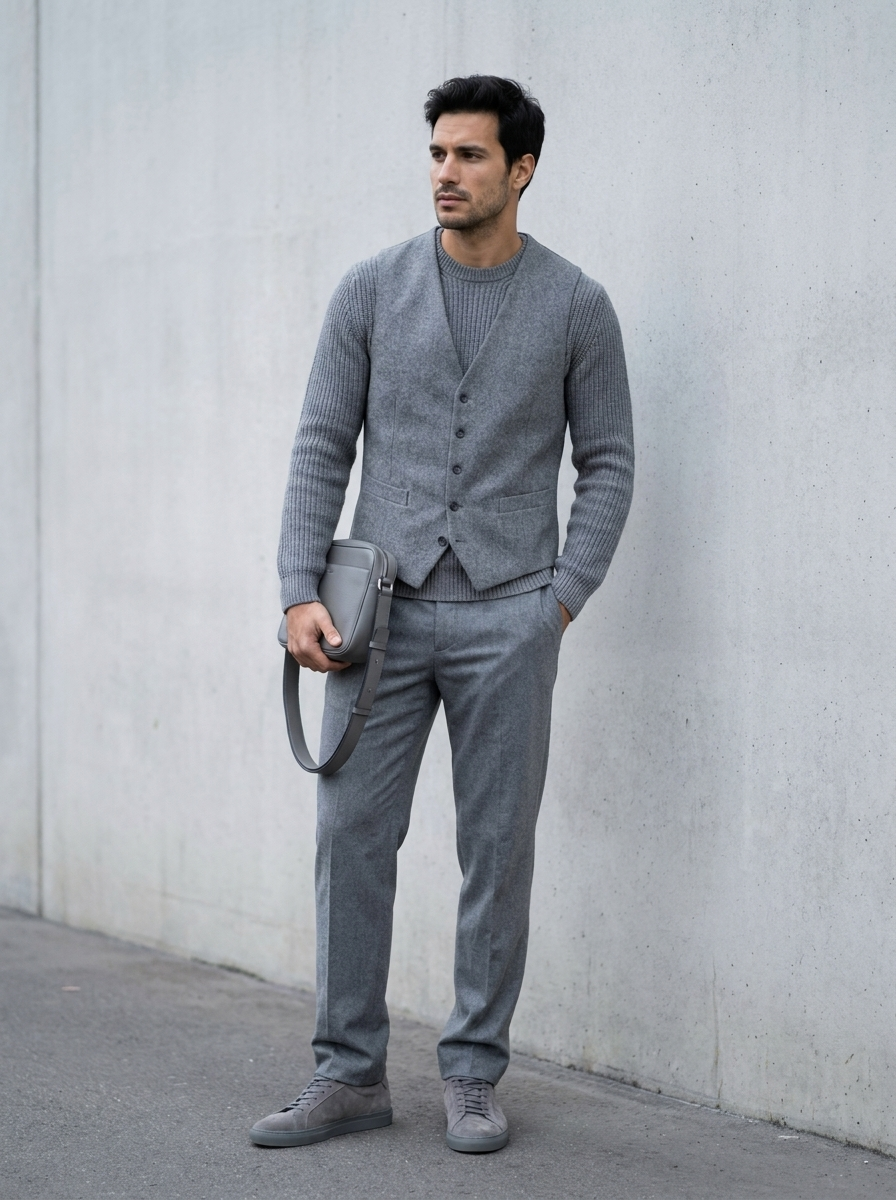
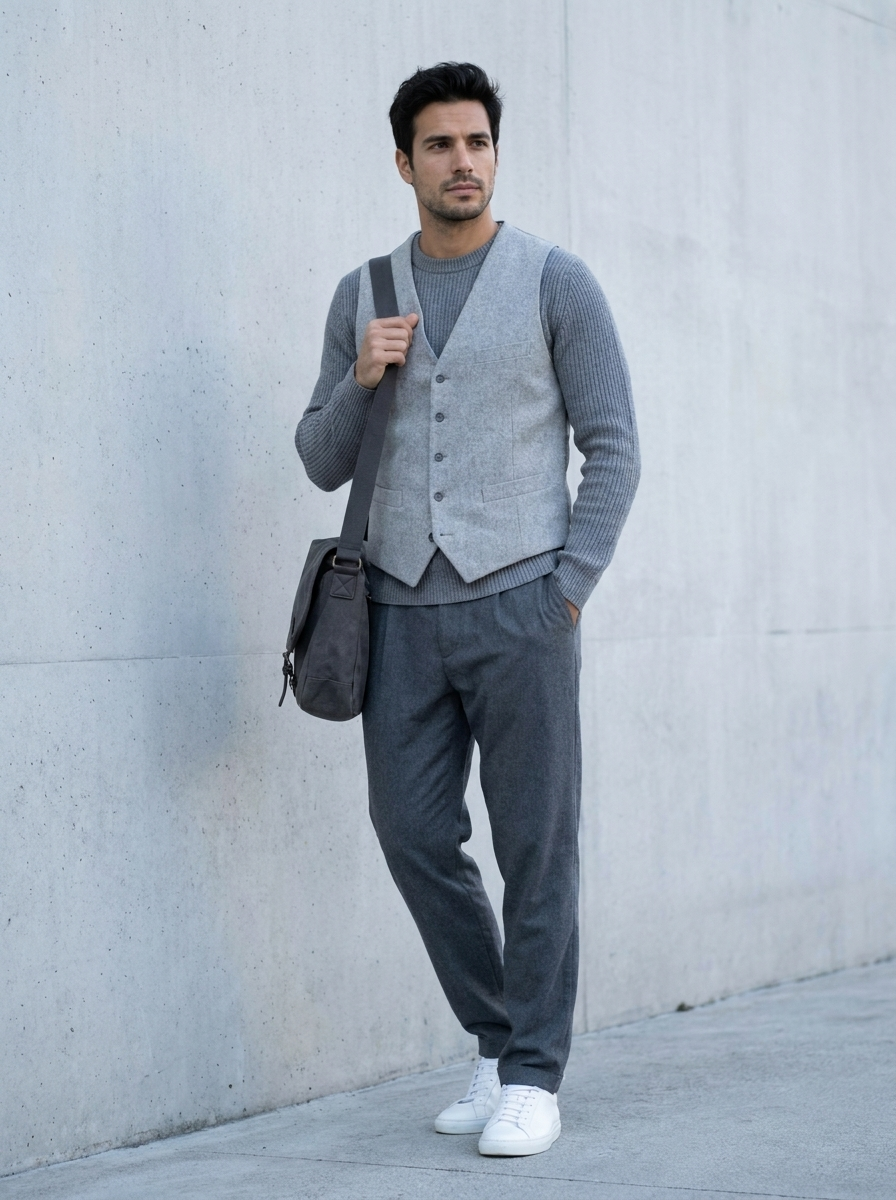
fix(swipe): tenis realistas + grises con tono variado en monocromático (v0.2.9.2)
Feedback de Roberto: los tenis grises con suela gris (mono h+m) gritan
"IA" — nadie tiene un tenis monocromático hasta la suela. Ahora tenis
blancos limpios como ancla neutra realista, y el look varía tonos de
gris (carbón/medio/claro) en vez de un solo gris plano de pies a
cabeza. QA visual 1:1.

diff --git a/CHANGELOG.md b/CHANGELOG.md
@@ -2,6 +2,12 @@
 
 Cambios notables de stailist. Formato basado en [Keep a Changelog](https://keepachangelog.com/es/); versiones `MAJOR.MINOR.PATCH.MICRO`.
 
+## [0.2.9.2] - 2026-07-22
+
+### Fixed
+
+- Los tenis grises con suela gris de **Monocromático** (hombre y mujer) se veían irreales (nadie tiene un tenis gris hasta la suela). Ahora llevan tenis blancos limpios, y los grises del look varían de tono (carbón, gris medio, gris claro) para que se lea como estilismo tonal intencional, no un uniforme de un solo gris plano.
+
 ## [0.2.9.1] - 2026-07-22
 
 ### Fixed
